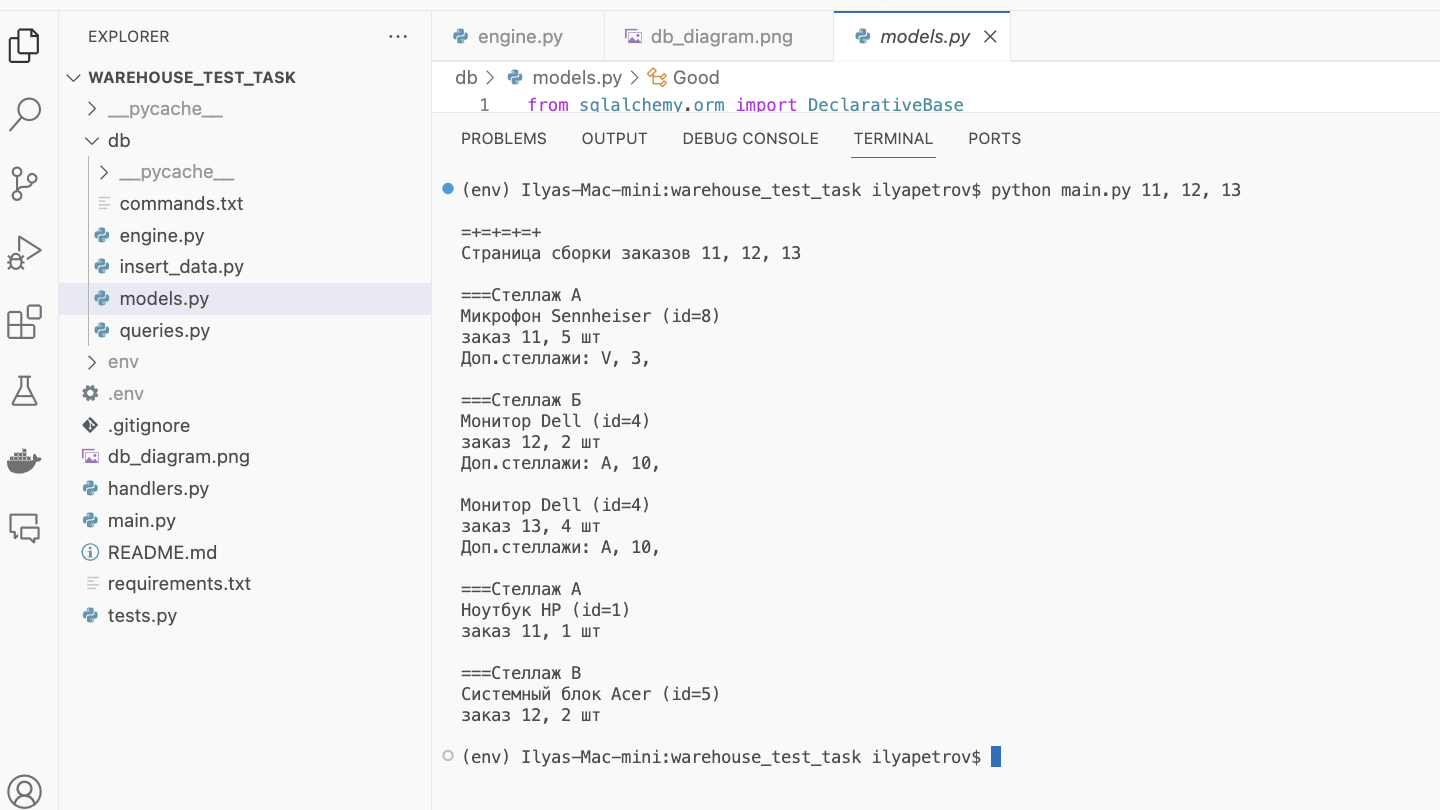
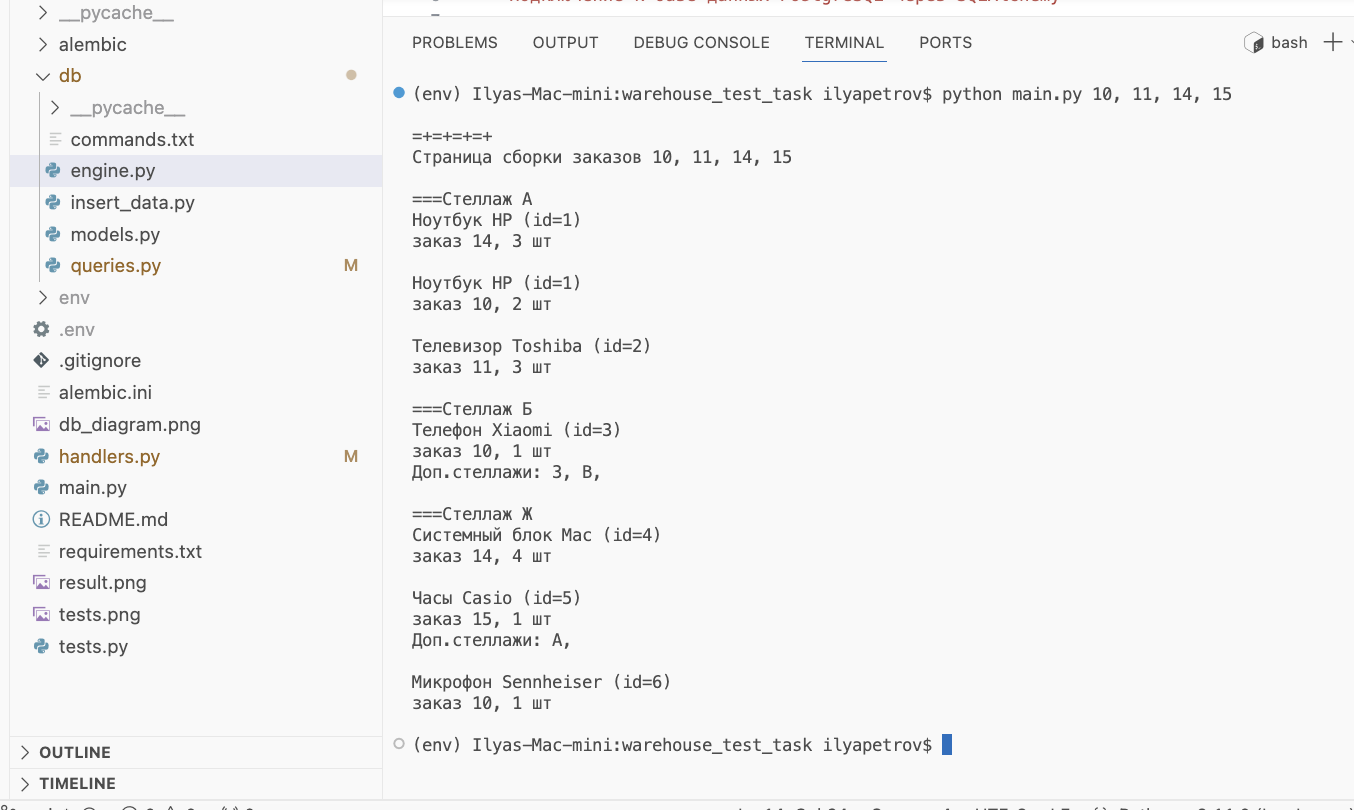
correction of errors

diff --git a/db/queries.py b/db/queries.py
@@ -14,22 +14,23 @@ class Query:
     def get_all_orders(self, orders_list):
         """Запрос на получение информации по заказанным товарам
         и местах их хранения."""
-        query = session.query(OrderedGoods, Order, Good, Category, MainShelve)
+        subquery = self.get_main_or_minor_shelves_for_goods(condition=True).subquery()
+        query = session.query(OrderedGoods, Order, Good, Category, subquery.c.shelve)
         query = query.join(Order, Order.id == OrderedGoods.order_id)
         query = query.join(Good, Good.id == OrderedGoods.good_id)
         query = query.join(Category, Good.category_id == Category.id)
-        query = query.join(MainShelve, Category.id == MainShelve.category_id)
+        query = query.outerjoin(subquery)
         query = query.filter(Order.number.in_(orders_list))
-        query = query.order_by(Category.category)
+        query = query.order_by(subquery.c.shelve)
         records = query.all()
         return records
 
-    def get_minor_shelves_for_goods(self):
-        """Запрос на получение информации по дополнительным
+    def get_main_or_minor_shelves_for_goods(self, condition):
+        """Запрос на получение информации по основным или дополнительным
         стеллажам для каждого товара."""
-        query = session.query(MinorShelve, Good, Category)
-        query = query.join(Good, MinorShelve.good_id == Good.id)
+        query = session.query(GoodShelve, Good, Category, Shelve)
+        query = query.join(Good, Good.id == GoodShelve.good_id)
         query = query.join(Category, Good.category_id == Category.id)
-        query = query.order_by(Good.id)
-        records = query.all()
-        return records 
+        query = query.join(Shelve, GoodShelve.shelve_id == Shelve.id)
+        query = query.filter(GoodShelve.is_main == condition)
+        return query

diff --git a/handlers.py b/handlers.py
@@ -23,10 +23,10 @@ class Handler(Query):
         print(
             f"Страница сборки заказов {', '.join([str(x) for x in self.orders_list])}\n"
             )
-
+        
         for ordered_good, order, good, category, main_shelve in records:
-            if main_shelve.name != self.current_shelve:
-                self.current_shelve = main_shelve.name
+            if main_shelve != self.current_shelve:
+                self.current_shelve = main_shelve
                 print(f'===Стеллаж {self.current_shelve}')
             print(f'{category.category} {good.model_name} (id={good.id})')
             print(f'заказ {order.number}, {ordered_good.quantity} шт')
@@ -39,15 +39,16 @@ class Handler(Query):
 
     def collect_info_about_minor_shelves(self):
         """Обработка информации по второстепенным стеллажам"""
-        records = self.get_minor_shelves_for_goods()
+        query = self.get_main_or_minor_shelves_for_goods(condition=False)
+        records = query.all()
         for record in records:
-            minor_shelve = record[0]
+            minor_shelve = record[3]
             good = record[1]
             good_minor_shelves = self.minor_shelves.get(good.id)
             if not good_minor_shelves:
-                self.minor_shelves[good.id] = f'{minor_shelve.name}, '
+                self.minor_shelves[good.id] = f'{minor_shelve.shelve}'
             else:
-                self.minor_shelves[good.id] += f'{minor_shelve.name}, '
+                self.minor_shelves[good.id] += f', {minor_shelve.shelve}'
 
     def run(self):
         """Начало работы по поиску и обработке информации"""

diff --git a/db/insert_data.py b/db/insert_data.py
@@ -5,17 +5,3 @@
 
 """Модуль для добавления информации в базу данных"""
 # with Session(engine) as session:
-#     good_shelve_1 = GoodShelve(good_id=1, shelve_id=1, is_main=True)
-#     good_shelve_2 = GoodShelve(good_id=2, shelve_id=1, is_main=True)
-#     good_shelve_4 = GoodShelve(good_id=3, shelve_id=2, is_main=True)
-#     good_shelve_5 = GoodShelve(good_id=3, shelve_id=4, is_main=False)
-#     good_shelve_6 = GoodShelve(good_id=3, shelve_id=5, is_main=False)
-#     good_shelve_7 = GoodShelve(good_id=4, shelve_id=3, is_main=True)
-#     good_shelve_8 = GoodShelve(good_id=5, shelve_id=3, is_main=True)
-#     good_shelve_9 = GoodShelve(good_id=5, shelve_id=6, is_main=False)
-#     good_shelve_10 = GoodShelve(good_id=6, shelve_id=3, is_main=True)
-
-#     session.add_all([good_shelve_1, good_shelve_2, good_shelve_4, good_shelve_5,
-#                      good_shelve_6, good_shelve_7, good_shelve_8, good_shelve_9,
-#                      good_shelve_10])
-#     session.commit()
